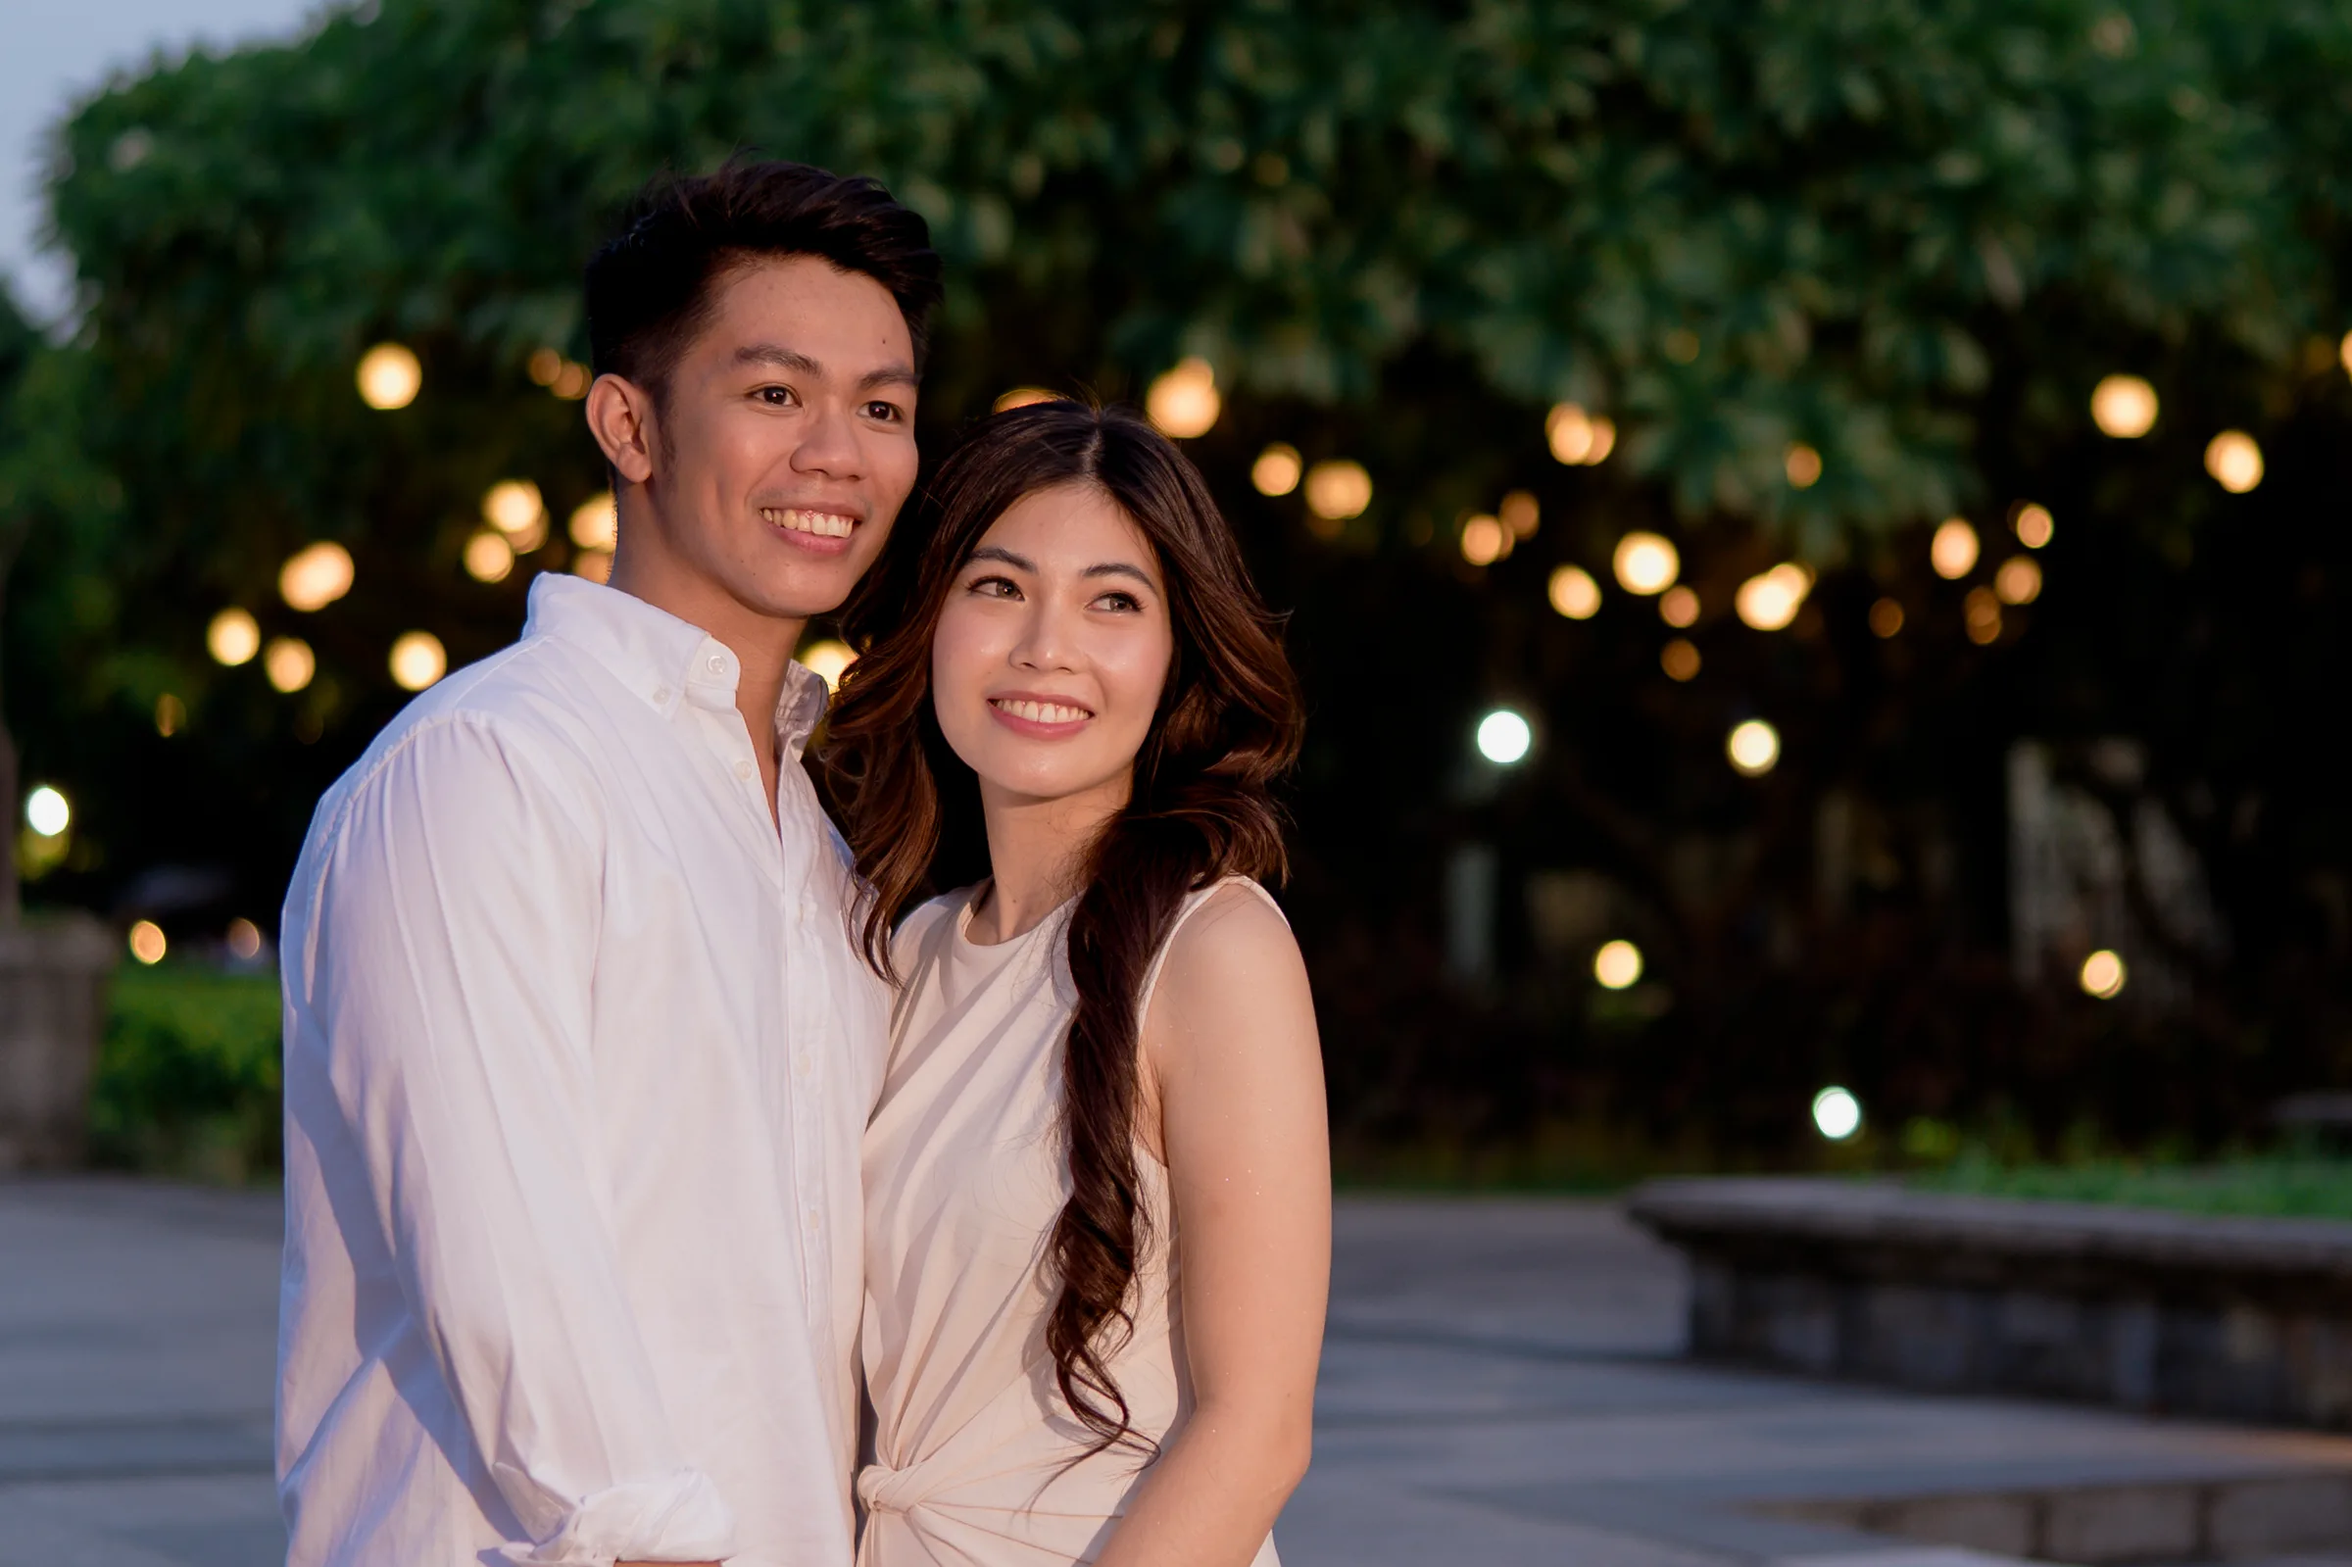
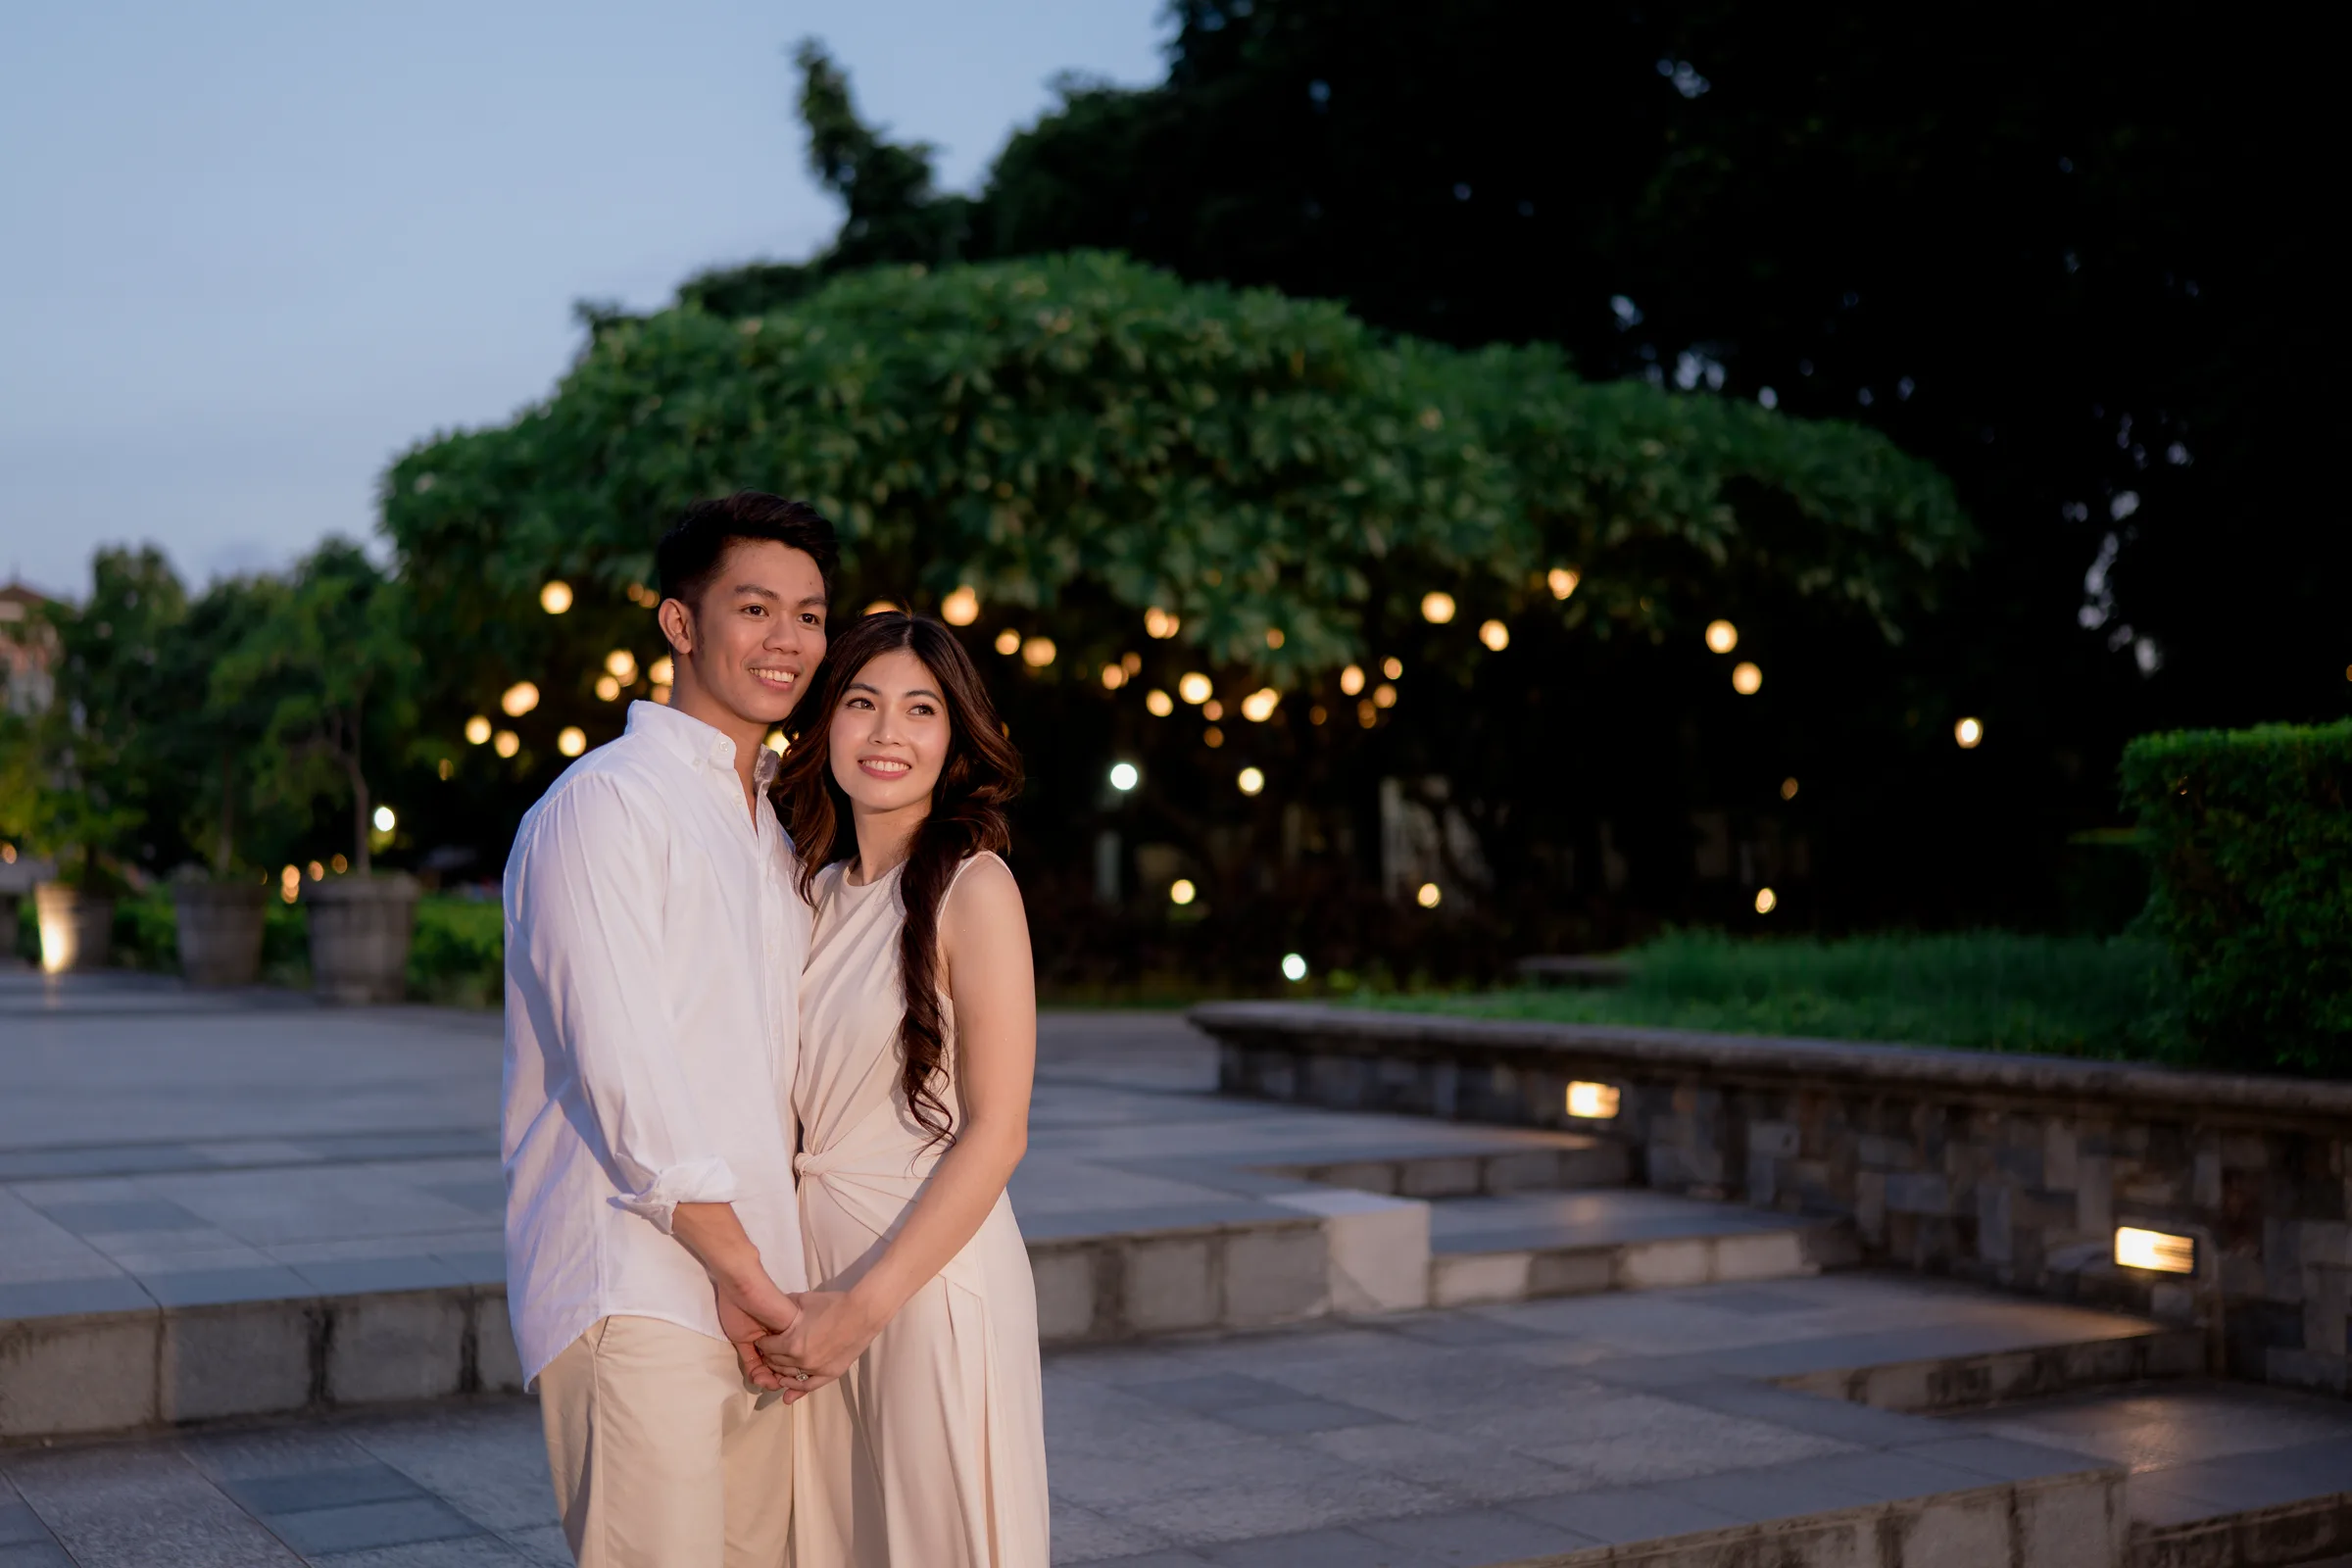
feat: swap eighth-section photo for full-body shot
Replace the headshot-style crop with a wider full-body photo from the
same set, and adjust the mobile/tablet crop anchor to match the new
composition's off-center framing.

diff --git a/src/components/shared/EighthPhotoSection.tsx b/src/components/shared/EighthPhotoSection.tsx
@@ -8,7 +8,7 @@ export default function EighthPhotoSection() {
         loading="lazy"
         decoding="async"
         alt="Israel and Deborah"
-        className="w-full h-full object-cover object-[35%_center] md:object-center"
+        className="w-full h-full object-cover object-[33%_center] md:object-center"
       />
       <div className="absolute inset-x-0 top-0 h-1/4 bg-[linear-gradient(to_bottom,#FFFFFF_0%,rgba(255,255,255,0.75)_20%,rgba(255,255,255,0.35)_44%,transparent_76%)]" />
       <div className="absolute inset-x-0 bottom-0 h-[12%] bg-[linear-gradient(to_top,#FDFBF7_0%,rgba(253,251,247,0.75)_35%,transparent_100%)]" />
